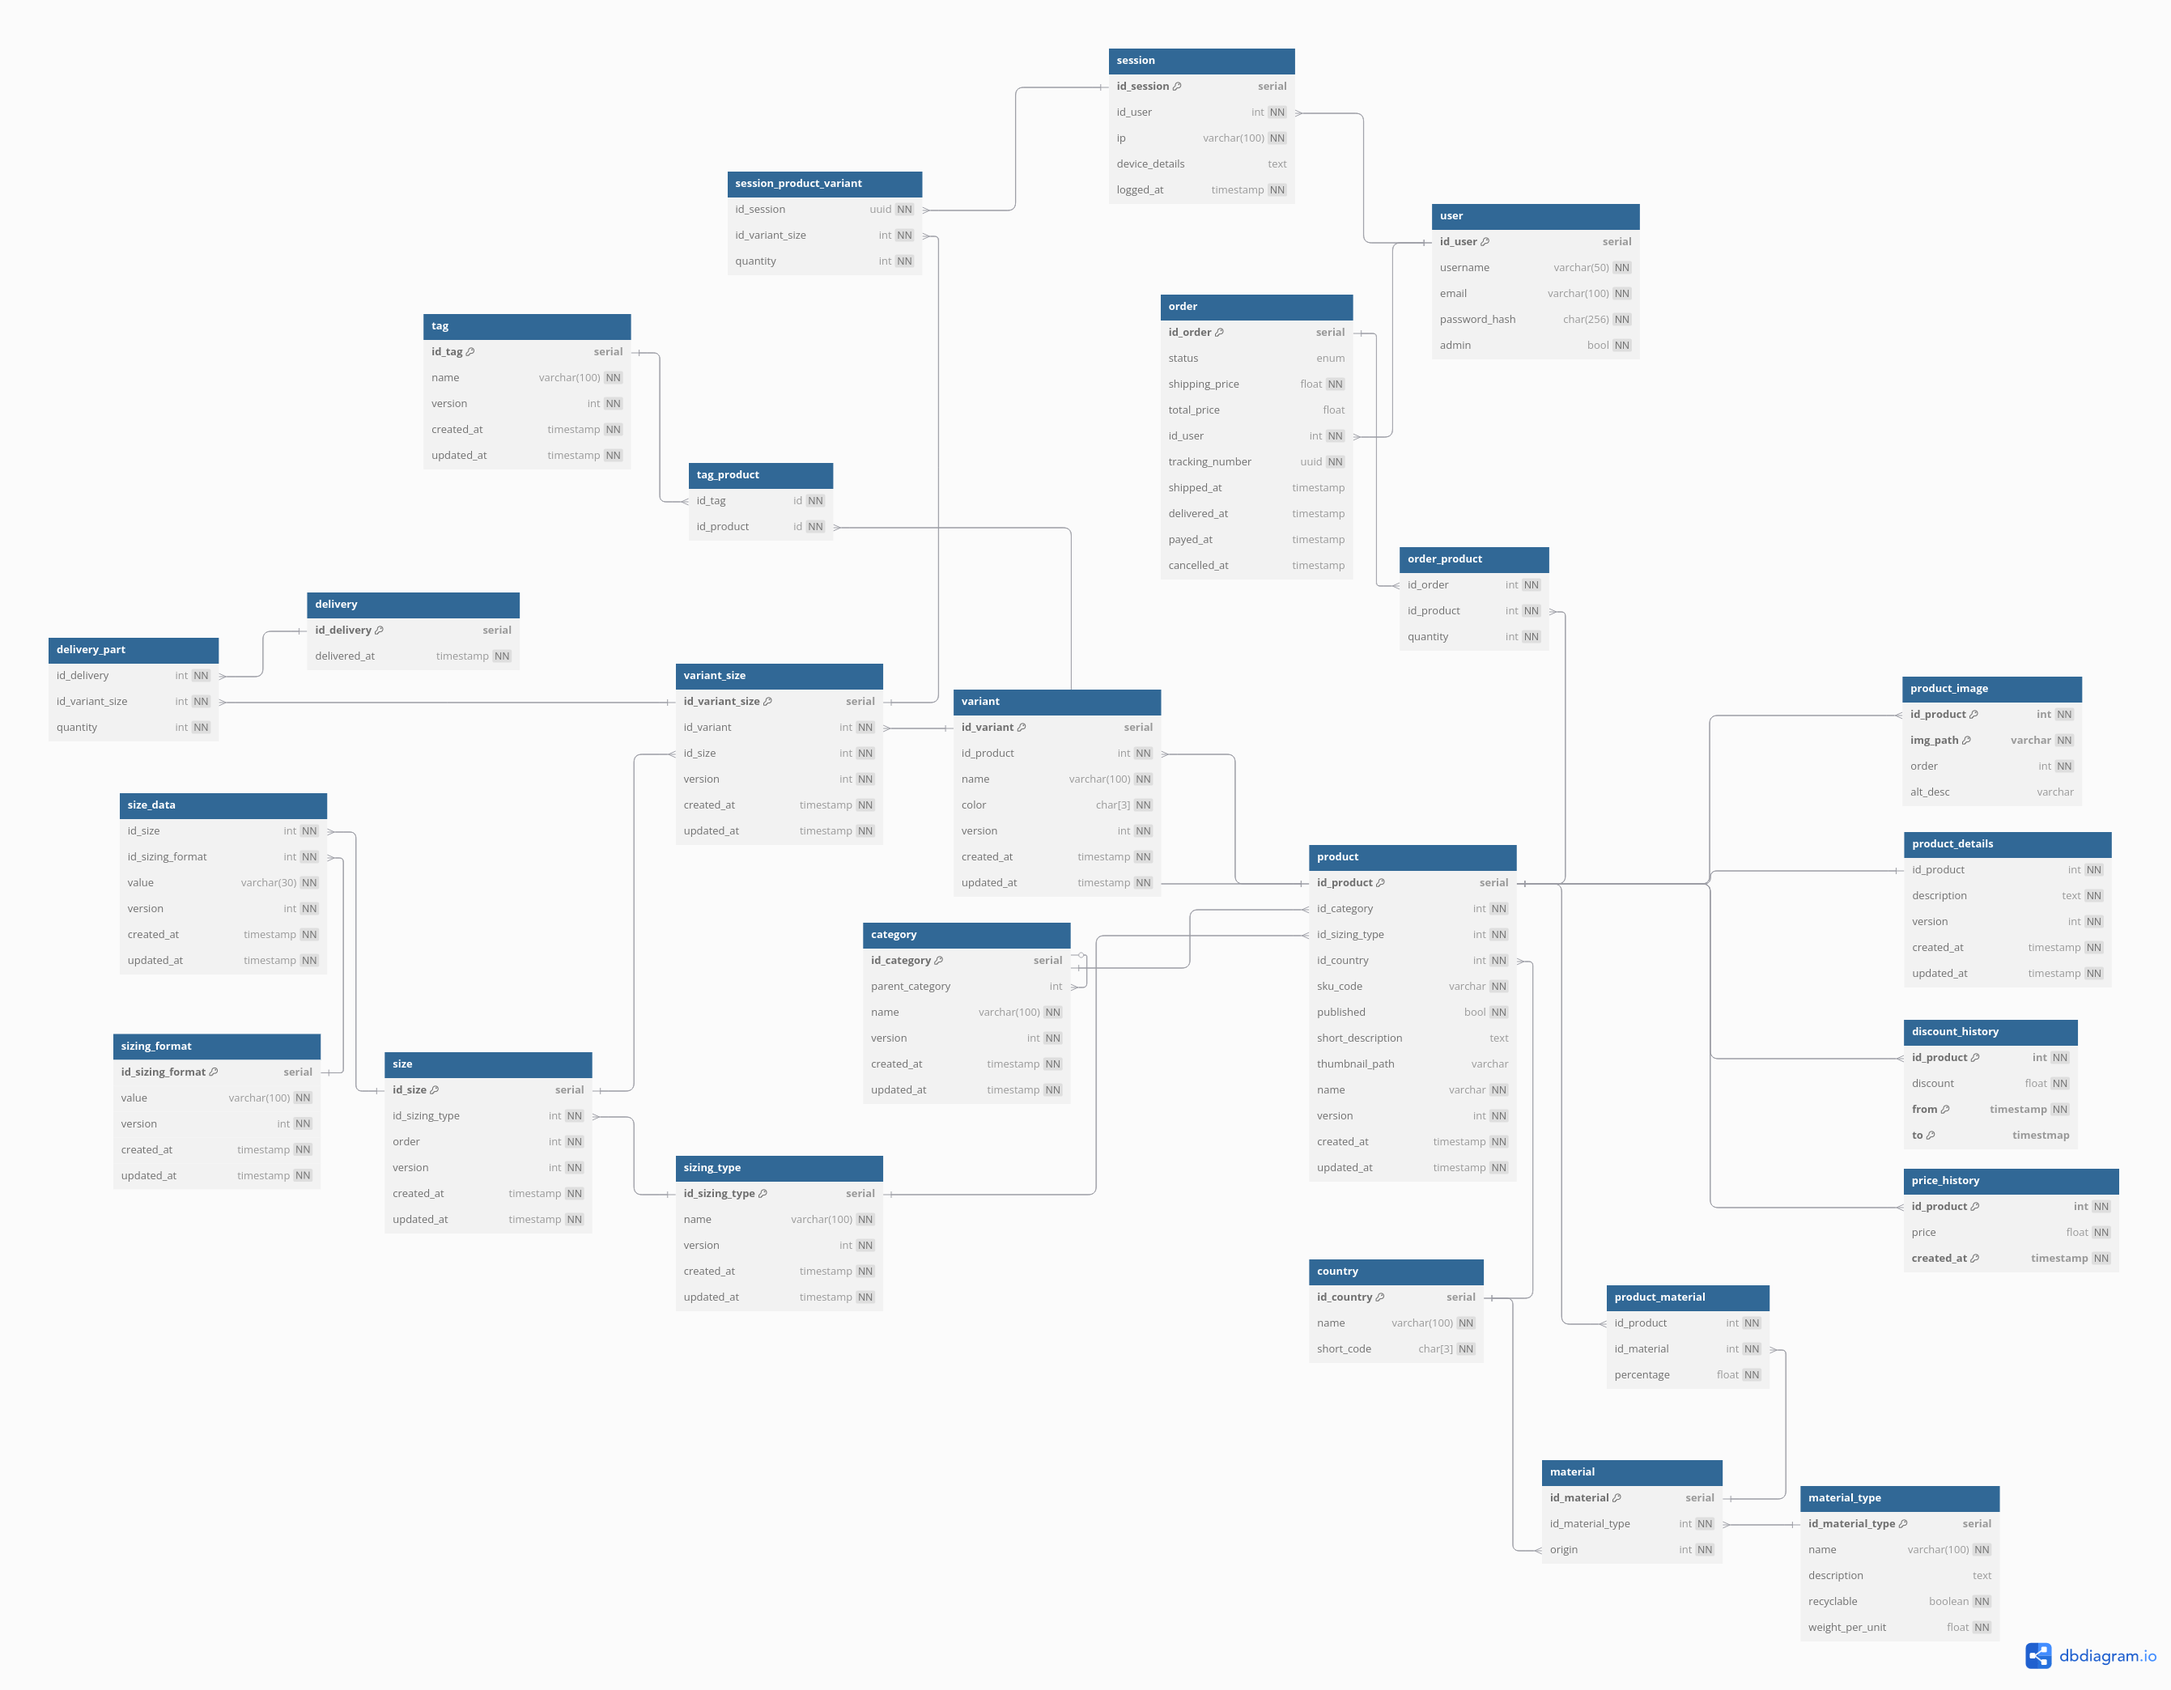
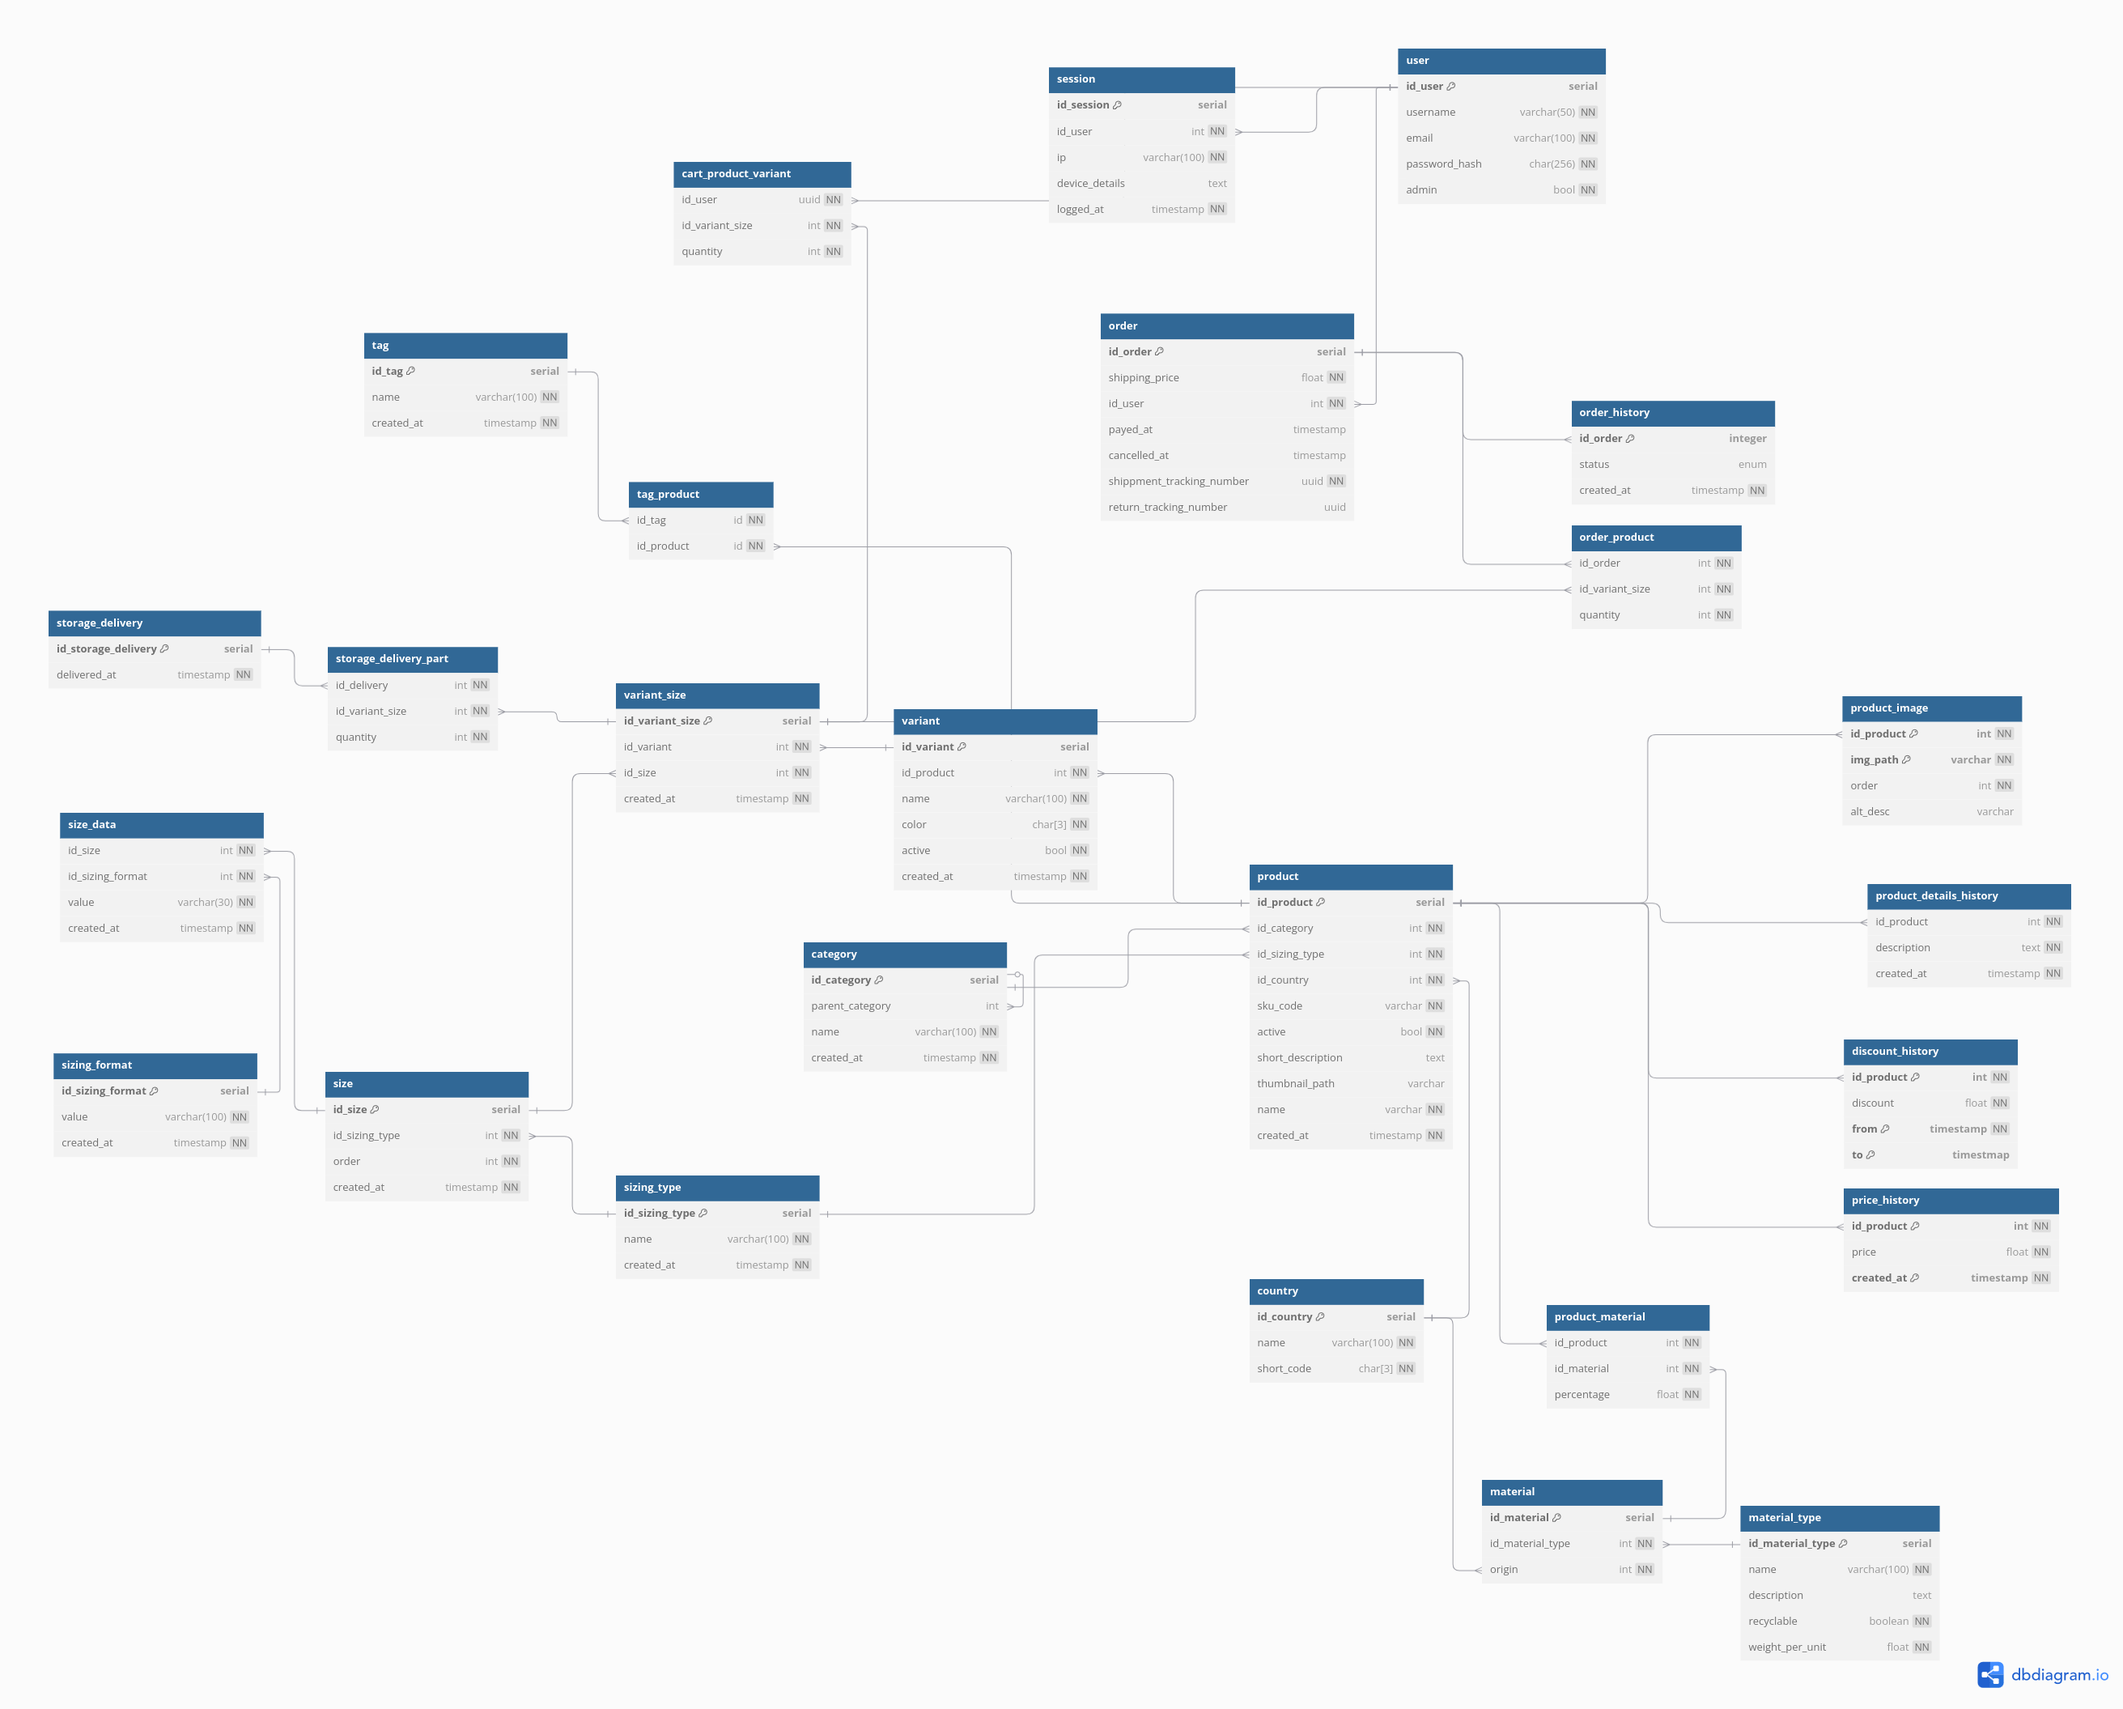
Database and application redesign to address issues

diff --git a/docs/description.tex b/docs/description.tex
@@ -7,6 +7,8 @@
 
 \section*{\textit{Cloth Craft}}
 
+Sklep całkowicie internetowy z ubraniami.
+
 \begin{figure}[h] % 'h' means here; you can also use 't' for top, 'b' for bottom, etc.
     \centering % Center the figure
     \includegraphics[width=1.0\textwidth]{diagram.png} % Adjust the width as needed
@@ -16,14 +18,35 @@
 
 \section*{Szczegóły niektórych tabel}
 
+\subsection*{Zmienialność tabel i historia zmian}
+Domyślnie dane we wszystkich tabelach są niezmienialne po wstawieniu, a encje nie mogą być usuwane. Dzięki temu nie ma ryzyka, że klient kupuje produkt, a potem, gdy chce się odwołać do jego opisu, opis jest nieaktualny. Encje tylko niektórych tabel mogą być zmieniane. Wiele obiektów ma możliwość tworzenia historii, a więc nie ma potrzeby wprowadzania zmian.
+
+Tabele, których encje mogą być modyfikowane i usuwane: Przede wszystkim użytkownicy i sesje.
+
+Dodatkowo pozwalamy na usuwanie i zmianę tagów. Jest to rodzaj informacji, który jedynie pomaga w filtrowaniu.
+
+Aby nie pozwolić na usuwanie i zmiany, po prostu nie dajemy takiej możliwości w API. Nie ograniczamy tego na poziomie bazy danych.
+
+Dodatkowo pozwalamy na ustawienie \texttt{active} dla produktu i wariantu jako fałsz/prawdę. Przydaje się to w sytuacji np., kiedy dany produkt nie będzie już dłużej dostępny, ale chcemy by klienci, którzy kupili produkt nadal mieli dostęp do informacji o produkcie. Podobnie dany wariant może zostać wycofany.
+
 \subsection*{Logika reprezentacji produktów i wariantów}
 Każde ubranie może występować w wielu wariantach i rozmiarach. Wariant jest charakteryzowany przede wszystkim przez kolor i ewentualne inne cechy szczególne. Każdy wariant jest dostępny w potencjalnie wielu rozmiarach. Zależnie od produktu typ tego rozmiaru (\texttt{sizing\_type}) może być inny: rozmiar butów nie jest porównywalny np. z rozmiarem koszulek, czy spodni. Ponadto każdy rozmiar (\texttt{size}) może być wyrażany w różny sposób (np. za pomocą różnych jednostek). Różne reprezentacje jednego rozmiaru obsługuje tabela \texttt{size\_data}, która ponadto przechowuje informacje o formacie (\texttt{sizing\_format}).
 
-\subsection*{\texttt{product\_details}}
+\subsection*{\texttt{product\_details\_history}}
 \texttt{description} będzie przechowywany jako Markdown. Będziemy go renderować za pomocą biblioteki JavaScript.
 
-\subsection*{\texttt{cart}}
-Początkowo użytkownik nie będzie posiadał własnego koszyka. Stworzony on będzie, gdy doda coś do niego. UUID koszyka przechowywane będzie w bazie danych PostgreSQL używając odpowiedniego rozszerzenia (\texttt{uuid-ossp}). Po stronie użytkownika UUID będzie przechowywane w formie ciasteczka. Koszyk jest aktualizowany za każdym razem, gdy użytkownik wykonuje na nim jakąś akcję. Puste koszyki są od razu usuwane. Dodatkowo każdy koszyk nieużywany odpowiednio długo również jest usuwany za pośrednictwem cron job. Dodanie produktu do koszyka nie blokuje innych użytkowników przed dodaniem go również. Kupienie zawartości koszyka natomiast zmniejsza dostępność produktów.
+\subsection*{\texttt{cart\_product\_variant}}
+Zawartość każdego koszyka nieużywanego odpowiednio długo jest usuwany za pośrednictwem cron job. Dodanie produktu do koszyka nie blokuje innych użytkowników przed dodaniem go również. Kupienie zawartości koszyka tworzy zamówienie. Przy tworzeniu zamówienia zmiejsza się dostępność produktów.
+
+\section*{Aspekty logiki aplikacji}
+\subsection*{Płatności}
+Użytkownik podaje dane karty płatniczej. Nie są one weryfikowane, a płatność zawsze jest akceptowana.
+
+\subsection*{Koszty dostawy}
+Domyślnie koszt dostawy to zawsze ustalona z góry wartość. Gdy wartość zamówienia jest odpowiednio wysoka, dostawa staje się darmowa.
+
+\subsection*{Adresy dostawy}
+Zakładamy, że firma kurierska przechowuje informacje o adresie dostawy podane podczas składania zamówienia. Każde zamówienie posiada \texttt{shippment\_tracking\_number}, które miało by służyć do łączenia się z API firmy kurierskiej. Oczywiście nie implementujemy komunikacji z żadną firmą kurierską.
 
 \section*{Indeksy}
 \begin{itemize}
@@ -54,21 +77,16 @@ Wstępne pomysły na widoki:
 
 \section*{Funkcje}
 \begin{itemize}
+    \item Sprawdź zawartość koszyka wraz z dostępnością dodanych produktów.
+    \item Liczenie sumarycznej ilości wariantów na podstawie historii dostaw do magazynu.
+    \item Liczenie całkowitego kosztu zamówienia na podstawie czasu złożenia zamówienia i historii cen.
     \item Wyświetl listę nadrzędnych kategorii.
     \item Generowanie wyników wyszukiwania na podstawie filtrów.
-    \item Sprawdź zawartość koszyka wraz z dostępnością dodanych produktów.
-    \item Generowanie wyzwalaczy do aktualizacji metadanych (już dostępna w \texttt{create.sql}).
 \end{itemize}
 
 \section*{Wyzwalacze}
 \subsection*{Spójność typów rozmiarów}
 Z jednej strony produkt definiuje typ rozmiaru, który go charakteryzuje, ale każdy rozmiar też jest określonego typu. Niezbędna będzie reguła, która będzie weryfikować przed dodaniem rozmiaru konkretnemu wariantowi produktu, czy typ tego rozmiaru się zgadza.
-
-\subsection*{Metadane}
-Większość tabel ma metadane takie jak \texttt{version}, \texttt{created\_at}, \texttt{updated\_at}. Dane te są użyteczne przy synchronizacji, gdy potencjalnie wielu użytkowników będzie wykonywać na bazie danych operacje i trzeba będzie zdecydować jak połączyć konfliktujące modyfikacje. Aby zagwarantować aktualność tych danych, odpowiedni wyzwalacz aktualizuje pola \texttt{version} i \texttt{updated\_at} przy każdej aktualizacji tabel.
-
-\section*{Reguły}
-Na tym etapie projektowania żadne reguły nie wydają się niezbędne.
 
 \end{document}
 
